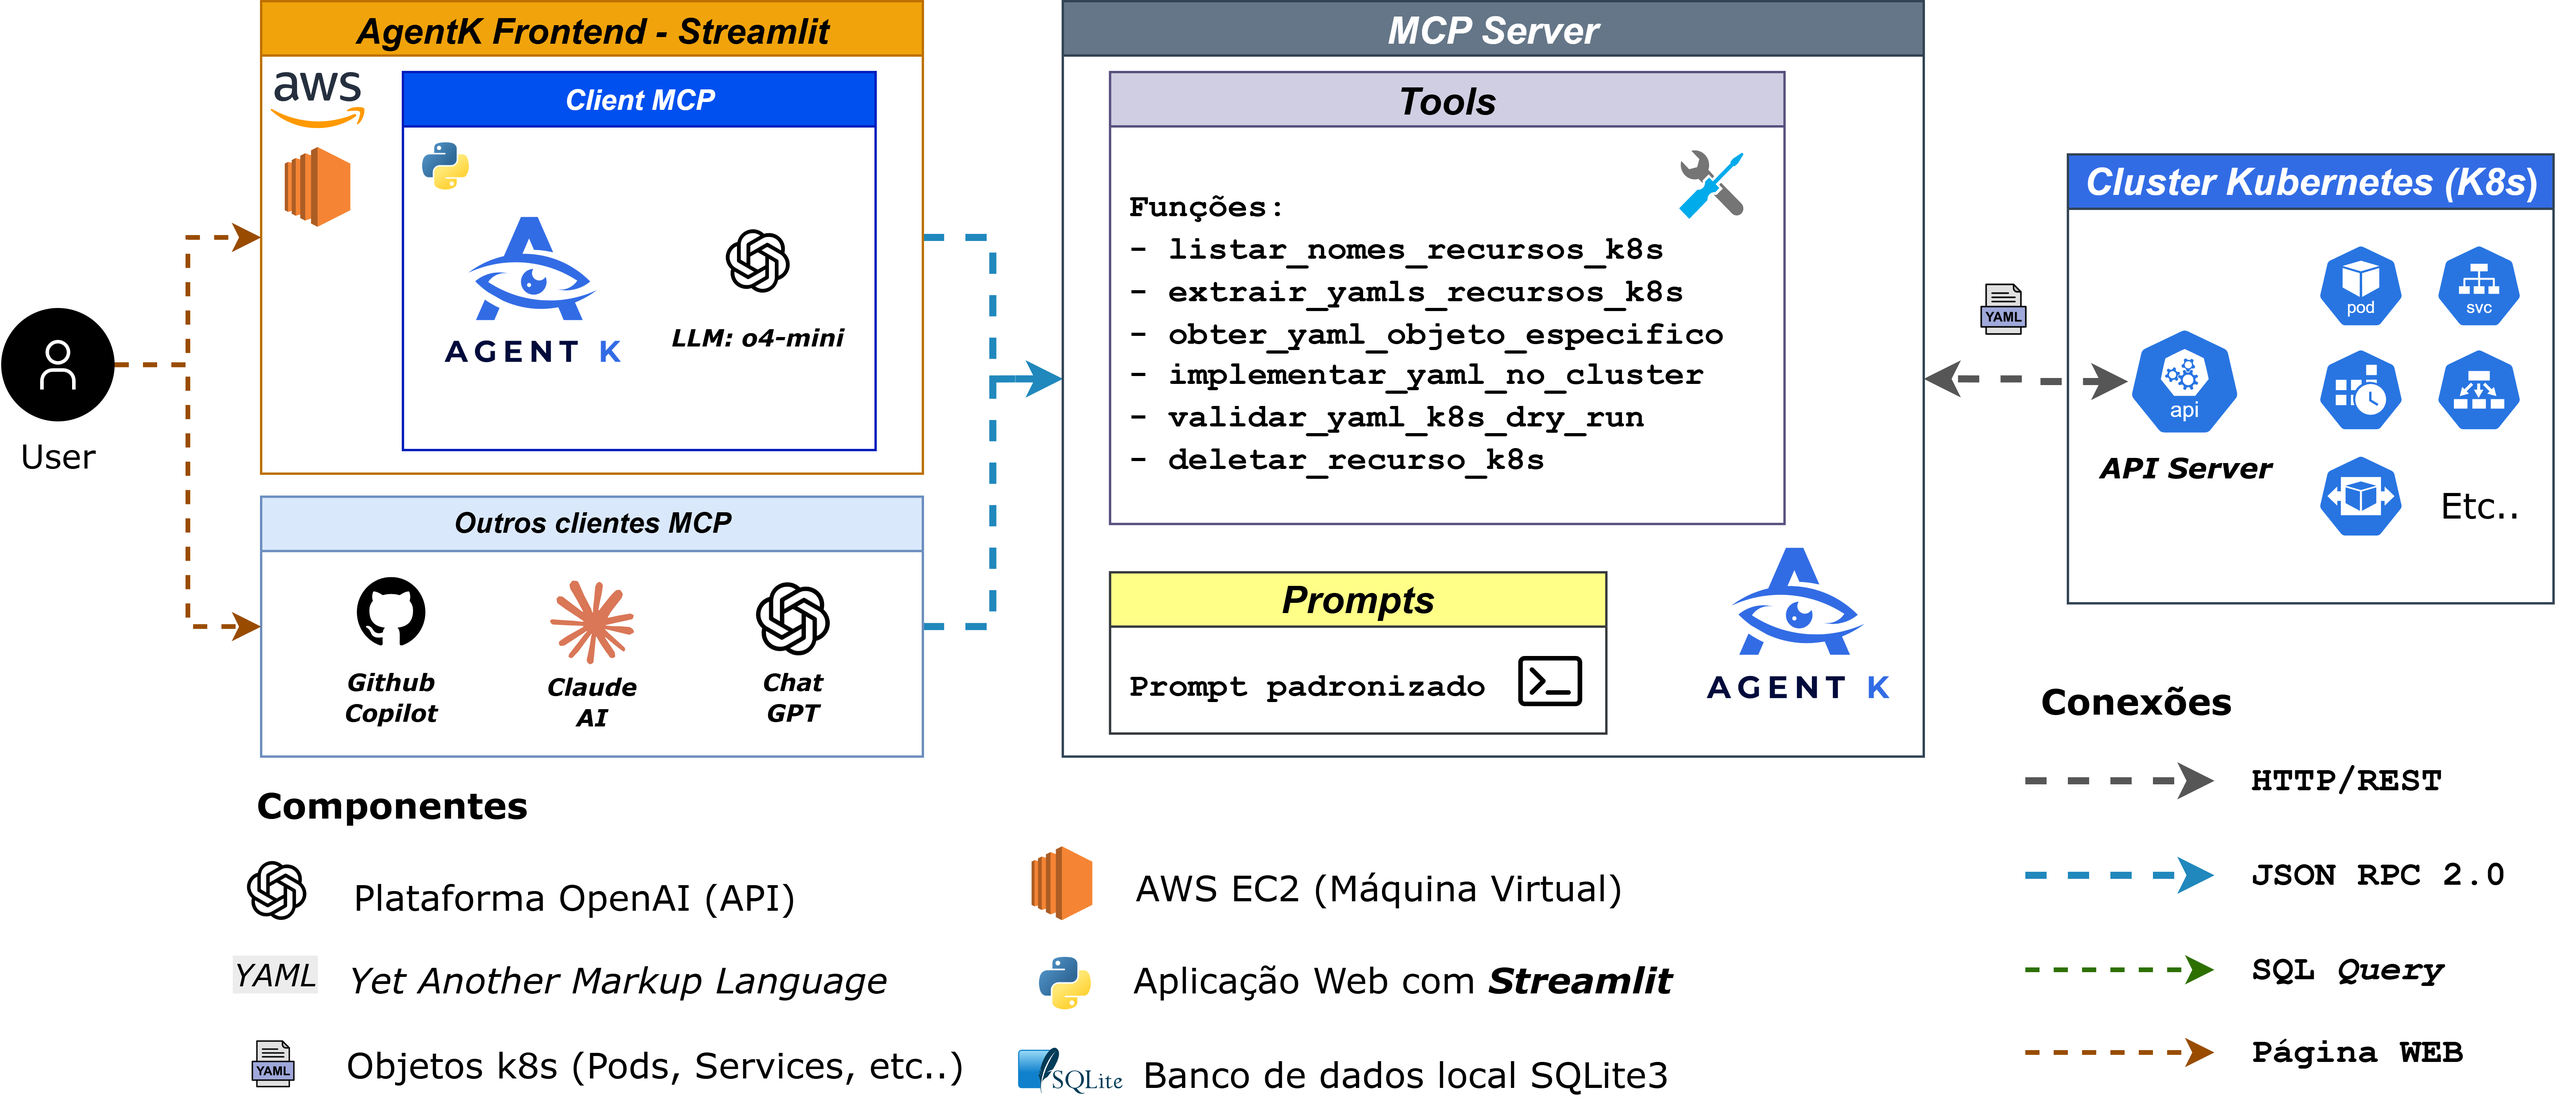
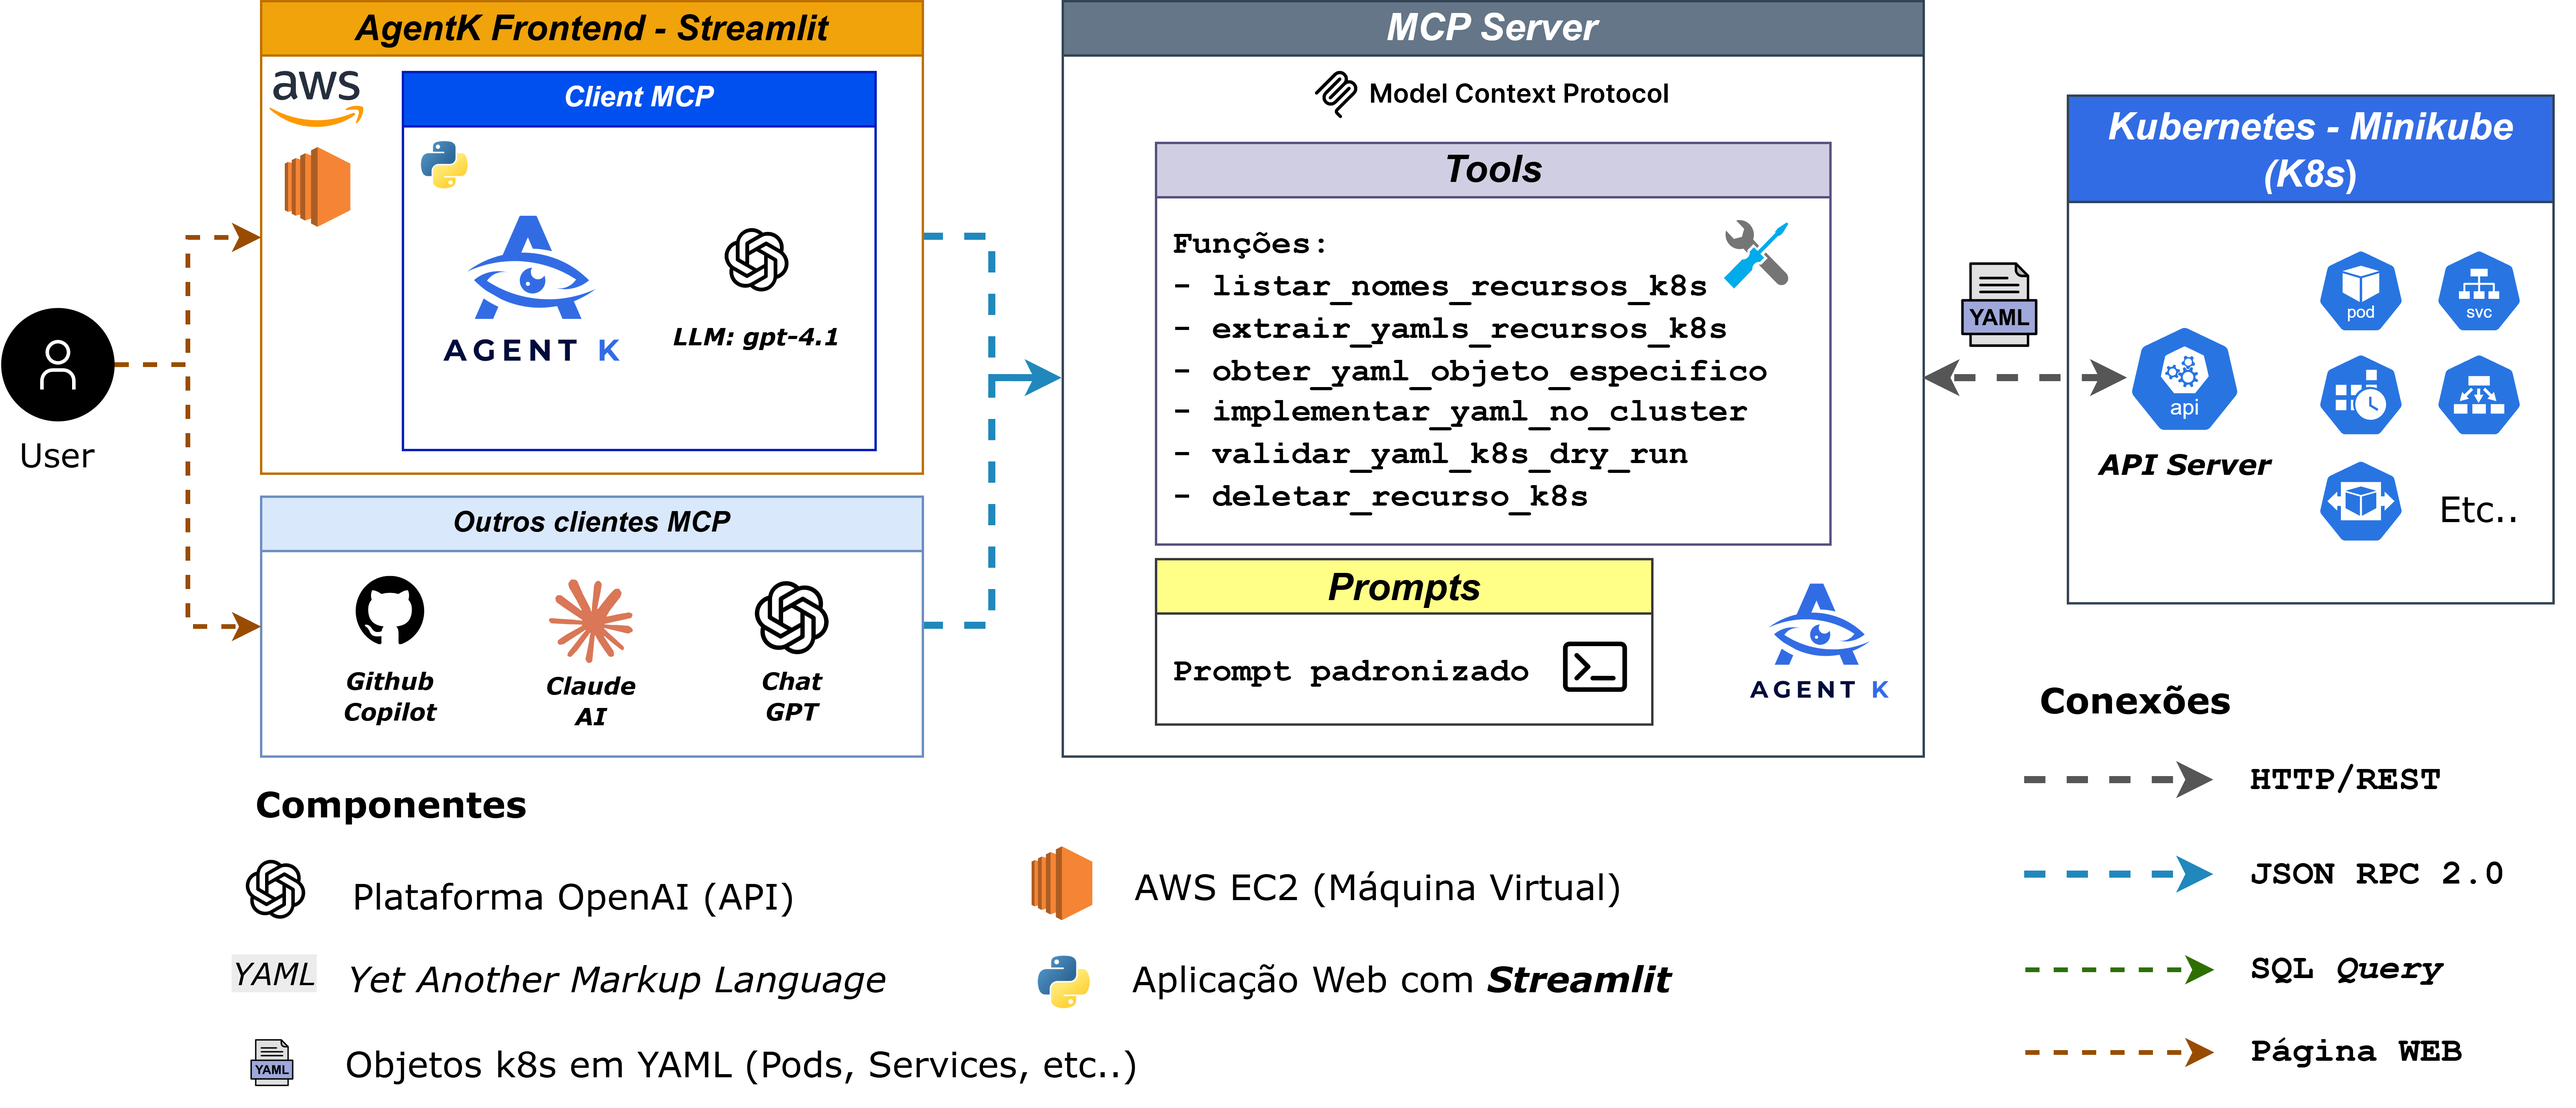
update main doc

diff --git a/README.md b/README.md
@@ -1,6 +1,6 @@
 # 🛡 AgentK - Especialista em Configurações YAML Kubernetes
 
-AgentK é um assistente inteligente especializado em **análise, otimização e gestão de configurações YAML do Kubernetes**. Utilizando GPT-4 e MCP (Model Context Protocol), oferece orientações baseadas em boas práticas para criação e manutenção de recursos Kubernetes de qualidade profissional.
+AgentK é um assistente inteligente especializado em **análise, otimização e gestão de configurações YAML do Kubernetes**. Utilizando GPT-4.1 e MCP (Model Context Protocol), oferece orientações baseadas em boas práticas para criação e manutenção de recursos Kubernetes de qualidade profissional.
 
 <p align="center">
   <img src="docs/AgentK-color.png" alt="AgentK" width="200" />
@@ -49,60 +49,29 @@ AgentK é um assistente inteligente especializado em **análise, otimização e 
 - **6 MCP Tools** para operações CRUD completas
 - **Configuração Externa** (`resource_config.yaml`)
 
-## Instalação
+## 🚀 Início Rápido
 
-### 🐳 Deploy com Docker (Recomendado)
+### Pré-requisitos
+- Docker e Docker Compose instalados
+- Acesso a um cluster Kubernetes (`kubectl` configurado)
+- Chave de API da OpenAI
+
+### Deploy Rápido
 
 ```bash
-# 1. Clone o repositório
+# 1. Clone e configure
 git clone https://github.com/viniolimpio3/AgentK-MCP.git
 cd AgentK-MCP
+cp .env.example .env  # Configure OPENAI_API_KEY e MCP_SERVER_URL
 
-# 2. Configure variáveis de ambiente (OBRIGATÓRIO)
-cp .env.example .env
-# Edite .env e configure: OPENAI_API_KEY e MCP_SERVER_URL
-
-# 3. Configure acesso ao Kubernetes:
-# Windows: Descomente no docker-compose.yml:
-# - ${USERPROFILE}/.kube/config:/app/.kube/config:ro
-
-# Linux/Mac: Descomente no docker-compose.yml:
-# - ${HOME}/.kube/config:/app/.kube/config:ro
-
-# 4. Execute
+# 2. Execute com Docker
 docker-compose up --build -d
 
-# 5. Acesse a aplicação
-# http://localhost:8501
+# 3. Acesse: http://localhost:8501
 ```
 
-### Deploy Automático
-
-O projeto possui **GitHub Actions** configurado para CI/CD:
-- **Deploy automático** a cada push na branch `master`
-- **Rollback manual** disponível via workflow
-- **Health checks** automáticos pós-deploy
-
-> **Pré-requisito**: Arquivo `.env` deve existir na VM de destino com as variáveis `OPENAI_API_KEY` e `MCP_SERVER_URL` configuradas.
-
-### Instalação Local
-
-```bash
-# 1. Clone e instale dependências
-git clone https://github.com/viniolimpio3/AgentK-MCP.git
-cd AgentK-MCP
-pip install -r client/requirements.txt
-pip install -r server/requirements.txt
-
-# 2. Configure variáveis de ambiente (OBRIGATÓRIO)
-cp .env.example .env
-# Edite .env e configure: OPENAI_API_KEY e MCP_SERVER_URL
-
-# 3. Execute a aplicação
-# Certifique-se que kubectl está configurado
-cd client
-streamlit run app/main.py
-```
+> 📖 **Para instalação detalhada, configuração de produção e CI/CD:**  
+> Consulte a [documentação completa de deploy](#-documentação-completa)
 
 ## Principais Diferenciais
 
@@ -117,13 +86,39 @@ streamlit run app/main.py
   <img src="docs/agent-k-arch.png" alt="AgentK" width="500" />
 </p>
 
-## Documentação Adicional
+## 📚 Documentação Completa
 
-- [Guia de Deploy](docs/DEPLOY.md)
-- [Exemplos de Uso](docs/tests/)
-- [Arquitetura do Sistema](docs/agent-k-arch.png)
+### 📖 Guias de Configuração e Deploy
+- **[Configuração do Ambiente na VM](docs/VM-environment-config.md)** - Setup completo do ambiente de produção
+- **[Pipeline CI/CD com GitHub Actions](docs/Pipeline-GithubActions-deployment-config.md)** - Deploy automático e rollback
+
+### 🧪 Testes e Validação
+- **[Procedimento de Testes do AgentK](docs/Procedimento-Testes-AgentK.md)** - Metodologia completa dos 50 testes realizados
+- **[Resumo das Misconfigurations](docs/Resumo-misconfigurations-tests.md)** - Detalhamento das misconfigurations intencionais
+- **[Arquivos de Teste YAML](docs/tests/)** - 10 arquivos com misconfigurations + 50 resultados exportados
+
+### 📊 Resultados e Métricas
+**Taxa de Detecção:**
+- ✅ Credenciais Expostas: **100%** (50/50)
+- ✅ Versão de Imagem: **100%** (50/50)
+- ✅ Erros Semânticos: **96%** (48/50)
+
+**Taxa de Implementação:** **88%** (44/50 testes bem-sucedidos)
+
+### 🎨 Recursos Visuais
+- **[Arquitetura do Sistema](docs/agent-k-arch.png)** - Diagrama da arquitetura MCP
+- **[Exemplos de YAML](docs/)** - `basic-example.yaml` e `orion-example.yaml`
+
+### 🔗 Links Rápidos
+| Documento | Descrição |
+|-----------|-----------|
+| [Procedimento de Testes](docs/Procedimento-Testes-AgentK.md) | Metodologia, resultados e análise dos 50 testes |
+| [Misconfigurations](docs/Resumo-misconfigurations-tests.md) | 29 misconfigurations em 10 arquivos de teste |
+| [Resultados dos Testes](docs/tests/results/) | 50 sessões exportadas com timestamps |
+| [VM Setup](docs/VM-environment-config.md) | Configuração do ambiente de produção |
+| [CI/CD Pipeline](docs/Pipeline-GithubActions-deployment-config.md) | Deploy automatizado com GitHub Actions |
 
 ---
 
-**Orientador:** Professor Dr. Fábio Henrique Cabrini
-**AgentK** - Seu especialista em configurações YAML Kubernetes
+**Orientador:** Professor Dr. Fábio Henrique Cabrini  
+**Instituição:** Faculdade Engenheiro Salvador Arena
